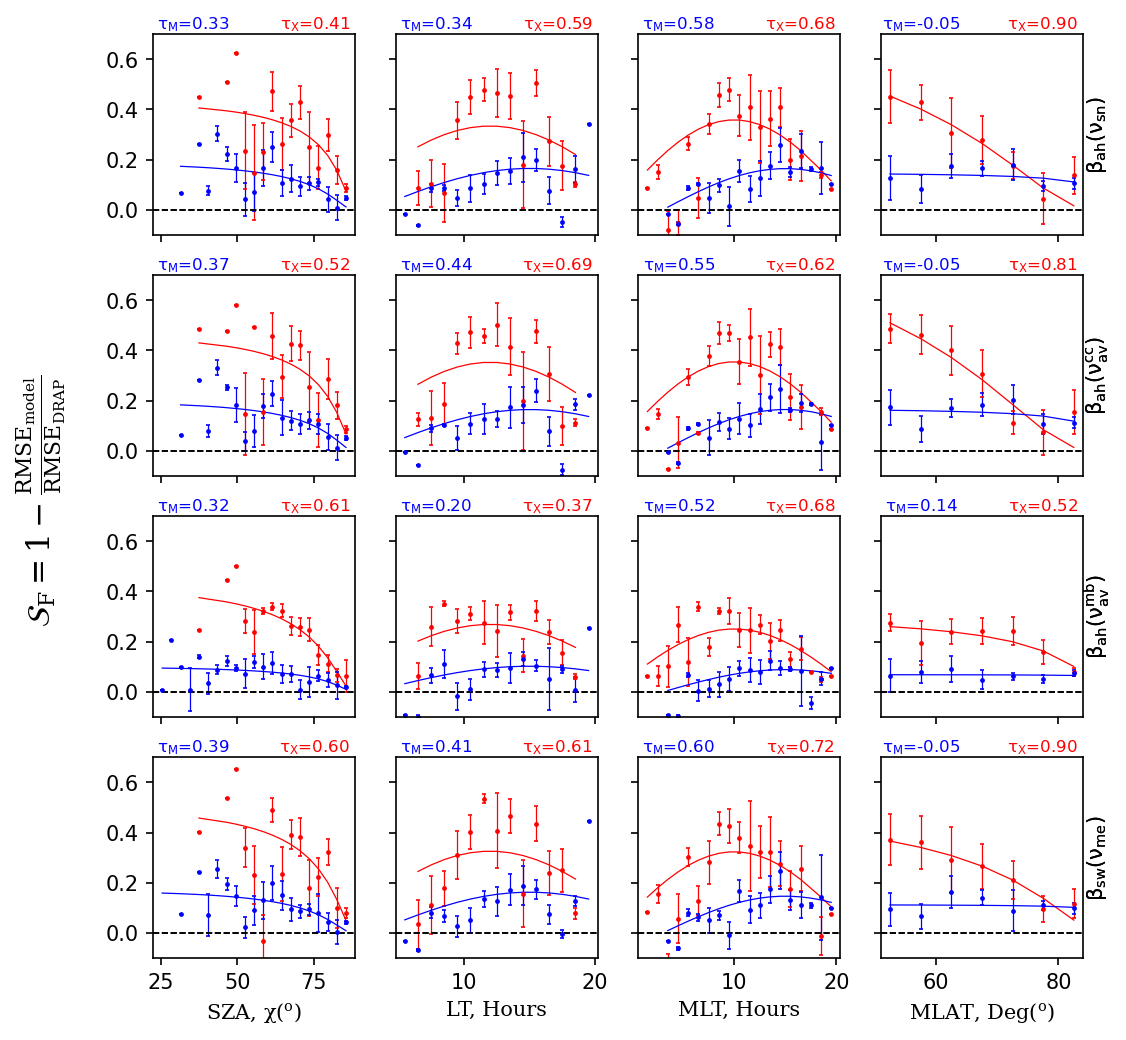
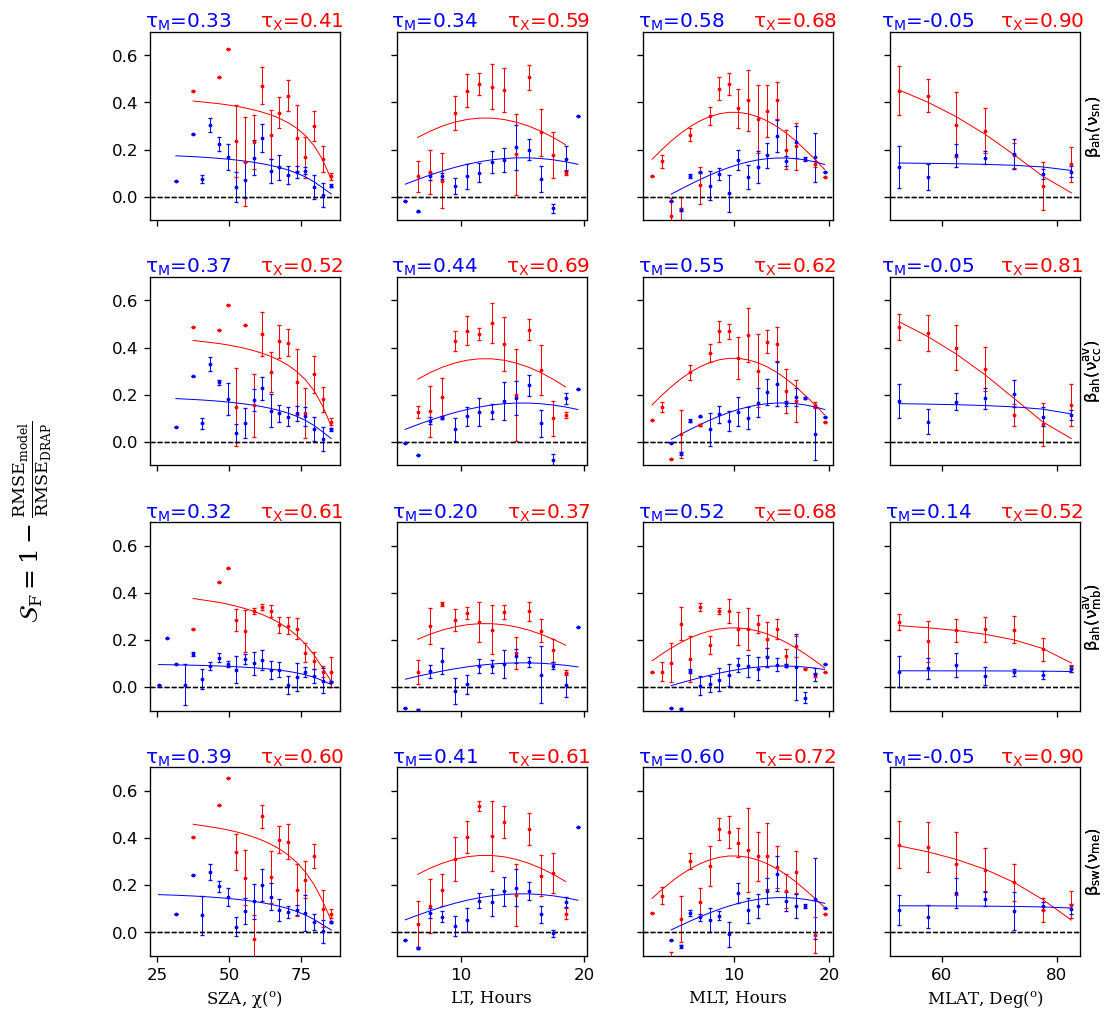
reviews 8/27

Changed region(s): [[0.0914, 0.0, 1.0, 1.0], [0.0, 0.364, 0.0609, 0.6067]]

diff --git a/analytics/polarstats.py b/analytics/polarstats.py
@@ -52,9 +52,9 @@ if case == 1:
         return u.r.tolist(), u.t.tolist(), u.z.tolist(), rr, tt, Z
 
 
-    fig = plt.figure(dpi=180, figsize=(5,10))
-    labels = [r"$\beta_{ah}(\nu_{sn})$", r"$\beta_{ah}(\nu^{cc}_{av})$",
-                            r"$\beta_{ah}(\nu^{mb}_{av})$", r"$\beta_{sw}(\nu_{me})$"]
+    fig = plt.figure(dpi=180, figsize=(9,14))
+    labels = [r"$\beta_{ah}(\nu_{sn})$", r"$\beta_{ah}(\nu^{av}_{cc})$",
+                            r"$\beta_{ah}(\nu^{av}_{mb})$", r"$\beta_{sw}(\nu_{me})$"]
     for j, nm in enumerate(["sn","avcc","avmb","sw"]):
         df = pd.concat([pd.read_csv("config/skills_X.csv"),pd.read_csv("config/skills_M.csv")])
         df = df[df["S_"+nm]>-.3]
@@ -66,14 +66,17 @@ if case == 1:
         im = ax.pcolormesh(np.deg2rad(tt), rr, Z, cmap="RdBu", alpha=0.75, vmax=0.5, vmin=-.5, shading="auto")
         txt = labels[j] + "\n" + r"$\bar{\mathcal{S}}_F$=%.3f"%np.mean(v) + "\n" +\
                 r"$\lbrace\mathcal{S}_F\rbrace\sim$[%.2f,%.2f]"%(np.quantile(v,.025), np.quantile(v,.975))
-        ax.text(np.deg2rad(225),1.8, txt, ha="center", va="center", fontdict=fonttext)
+        ax.text(np.deg2rad(225),1.6, txt, ha="center", va="center", fontdict=fonttext)
         ax.grid(True)
         if j==0: ax.set_title(r"$\mathcal{S}_F\left(LT, SZA\right)$",fontdict=fontlabel)
+        ax.set_yticks([1./3., 2./3., 1.])
         ax.set_xticklabels([])
         ax.set_yticklabels([])
+        ax.grid(color="gray", linestyle="-", linewidth=0.3, alpha=0.5)
         if j==0: 
             ax.set_xticklabels(["0", 3, "6", 9, "12LT", 15, "18", 21], fontdict=font)
-            ax.set_yticklabels([r"$0.1\pi$", r"$0.2\pi$", r"$0.3\pi$", r"$0.4\pi$", r"$0.5\pi$"], fontdict=font)
+            #ax.set_yticklabels([r"18$^o$", r"36$^o$", r"54$^o$", r"72$^o$", r"90$^o$"], fontdict=font)
+            ax.set_yticklabels([r"30$^o$", r"60$^o$", r"90$^o$"], fontdict=font)
 
         ax = plt.subplot(421+j*2+1, projection="polar")
         ax.set_rlim(0,1)
@@ -84,11 +87,14 @@ if case == 1:
                 r"$\mathcal{S}_F\sim$[%.2f,%.2f]"%(np.quantile(v,.025), np.quantile(v,.975))
         ax.grid(True)
         if j==0: ax.set_title(r"$\mathcal{S}_F\left(MLT, MLAT\right)$",fontdict=fontlabel)
+        ax.set_yticks([1./3., 2./3., 1.])
         ax.set_xticklabels([])
         ax.set_yticklabels([])
+        ax.grid(color="gray", linestyle="-", linewidth=0.3, alpha=0.5)
         if j==0: 
             ax.set_xticklabels(["0", 3, "6", 9, "12MLT", 15, "18", 21], fontdict=font)
-            ax.set_yticklabels([r"$0.1\pi$", r"$0.2\pi$", r"$0.3\pi$", r"$0.4\pi$", r"$0.5\pi$"], fontdict=font)
+            #ax.set_yticklabels([r"$0.1\pi$", r"$0.2\pi$", r"$0.3\pi$", r"$0.4\pi$", r"$0.5\pi$"], fontdict=font)
+            ax.set_yticklabels([r"30$^o$", r"60$^o$", r"90$^o$"], fontdict=font)
     cb = fig.colorbar(im, ax=plt.gcf().get_axes(), shrink=0.4)
     cb.set_label(r"$\mathcal{S}_F$", fontdict={"size":15})
     fig.savefig("figs/Figure061.png", bbox_inches="tight")
@@ -114,13 +120,13 @@ if case == 2:
         ax.axhline(0, color="k", ls="--", lw="0.8")
         ax.plot(x, func(np.array(x), *popt), color=col, lw=0.6)
         if col=="r": ax.text(0.8, 1.05, r"$\tau_{X}$=%.2f"%np.round(kendalltau(u[ny], func(u[nx], *popt)),2)[0],
-                             ha="center", va="center", fontdict={"color":"red", "size":8}, transform=ax.transAxes)
+                             ha="center", va="center", fontdict={"color":"red", "size":12}, transform=ax.transAxes)
         if col=="b": ax.text(0.2, 1.05, r"$\tau_{M}$=%.2f"%np.round(kendalltau(u[ny], func(u[nx], *popt)),2)[0], 
-                             ha="center", va="center", fontdict={"color":"blue", "size":8}, transform=ax.transAxes)
+                             ha="center", va="center", fontdict={"color":"blue", "size":12}, transform=ax.transAxes)
         return
 
 
-    fig1, axes1 = plt.subplots(figsize=(8, 8), nrows=4, ncols=4, dpi=150, sharey="row", sharex="col")
+    fig1, axes1 = plt.subplots(figsize=(10, 10), nrows=4, ncols=4, dpi=120, sharey="row", sharex="col")
     for cls, col, mul, peaks in zip(["X", "M"], ["r", "b"], [0.08, 0.1], [[12,10],[15,15]]):
         for j, nm in enumerate(["sn","avcc","avmb","sw"]):
             df = pd.concat([pd.read_csv("config/skills_%s.csv"%cls)])
@@ -153,4 +159,5 @@ if case == 2:
     axes1[3,0].set_ylim(-0.1,0.7)
     font["size"] = size*1.5
     fig1.text(0.01, 0.4, r"$\mathcal{S}_F = 1-\frac{RMSE_{model}}{RMSE_{DRAP}}$", fontdict=font, rotation=90)
+    fig1.subplots_adjust(wspace=0.3, hspace=0.3)
     fig1.savefig("figs/Figure06.png", bbox_inches="tight")

diff --git a/analytics/eTemp_analysis.py b/analytics/eTemp_analysis.py
@@ -87,20 +87,25 @@ if __name__ == "__main__":
         font = {"family": "serif", "color":  "black", "weight": "normal", "size": 6}
         fonttext = {"family": "serif", "color":  "blue", "weight": "normal", "size": 6}
         fmt = mdates.DateFormatter("%H:%M")
+        print("Here")
         sim = Simulation(args.event, args.rio)
         _dir = "proc/outputs/tElec/{date}/{rio}/".format(date=args.event.strftime("%Y.%m.%d.%H.%M"), rio=args.rio)
         if not os.path.exists(_dir): os.system("mkdir -p "+_dir)
+        print("Here")
         X = []
         plt.style.use("seaborn-bright")
-        fig, axes = plt.subplots(figsize=(6, 2), nrows=1, ncols=2, dpi=100)
+        fig, axes = plt.subplots(figsize=(6, 2), nrows=1, ncols=2, dpi=150)
         ax = axes[0]
         ax.xaxis.set_major_formatter(fmt)
         cmap = matplotlib.cm.get_cmap("Reds")
         Mx = np.zeros((60, len(TElec)))
+        print("Here")
         Riometer().get_riometer_file(None, args.event, args.rio)
         _abs_ = utils.read_riometer(args.event, args.rio)
         _abs_ = _abs_[(_abs_.date > start) & (_abs_.date < end-dt.timedelta(minutes=1))]
+        print("Here")
         for i, t in enumerate(TElec):
+            print(i, t)
             fname = _dir + "flare.TElec_%.2f.nc.gz"%t
             if not os.path.exists(fname.replace(".gz", "")): sim.get_flare_file(None, fname)
             nc = Dataset(fname.replace(".gz", ""))
@@ -115,7 +120,7 @@ if __name__ == "__main__":
             e = utils.estimate_error(m, _abs_)
             X.append(e)
             print(fname)
-        ax.plot(_abs_.date, _abs_.absorp, "ko", alpha=0.4, markersize=0.1, label=r"$\beta_{R}$", lw=.4)
+        ax.plot(_abs_.date, _abs_.absorp, "ko", alpha=0.9, markersize=.5, label=r"$\beta_{R}$", lw=.4)
         mn, st = 1.2*np.median(Mx, axis=1), 1.98*np.std(Mx, axis=1)
         ax.plot(m.date, mn, color="r", linewidth=0.8, ls="--", label=r"$\beta_m$")
         ax.fill_between(m.date, mn - st, mn + st, color="r", alpha=0.5, label="95% CI")
@@ -125,7 +130,7 @@ if __name__ == "__main__":
             args.rio.upper()), horizontalalignment="center",
             verticalalignment="center", transform=ax.transAxes, fontdict=fonttext)
         ax.set_ylim(-.1,2.5)
-        ax.legend(loc=1, scatterpoints=3, fontsize=4, ncol=1, frameon=True)
+        ax.legend(loc=1, scatterpoints=3, fontsize=6, ncol=1, frameon=True)
         ax.set_xlabel("Time (UT)", fontdict=font)
         ax.set_ylabel("Absorption, dB", fontdict=font)
         ax = axes[1]

diff --git a/analytics/fetch_data.py b/analytics/fetch_data.py
@@ -46,6 +46,7 @@ class Conn2Remote(object):
     
     def conn(self):
         if not self.con:
+            #self.host = "cascades1.arc.vt.edu"
             self.ssh = paramiko.SSHClient()
             self.ssh.set_missing_host_key_policy(paramiko.AutoAddPolicy())
             self.ssh.connect(hostname=self.host, port = self.port, username=self.user, key_filename=self.key_filename)
